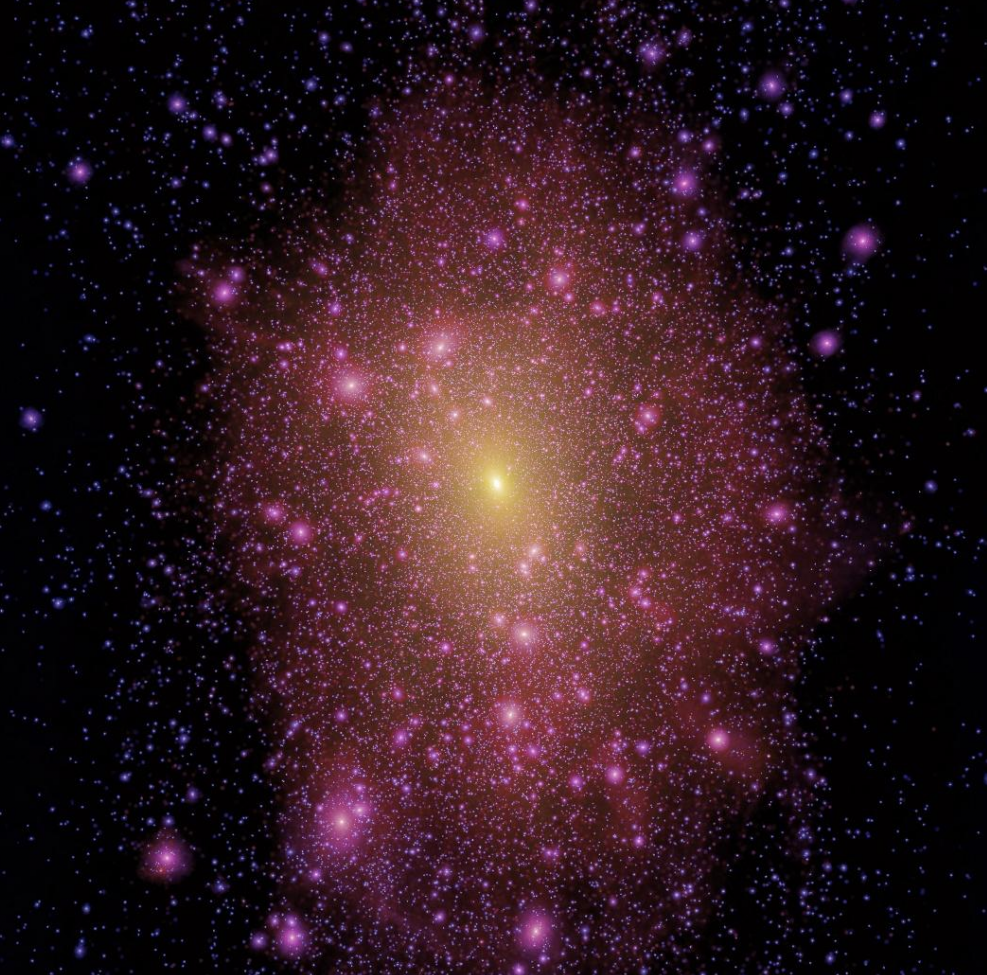
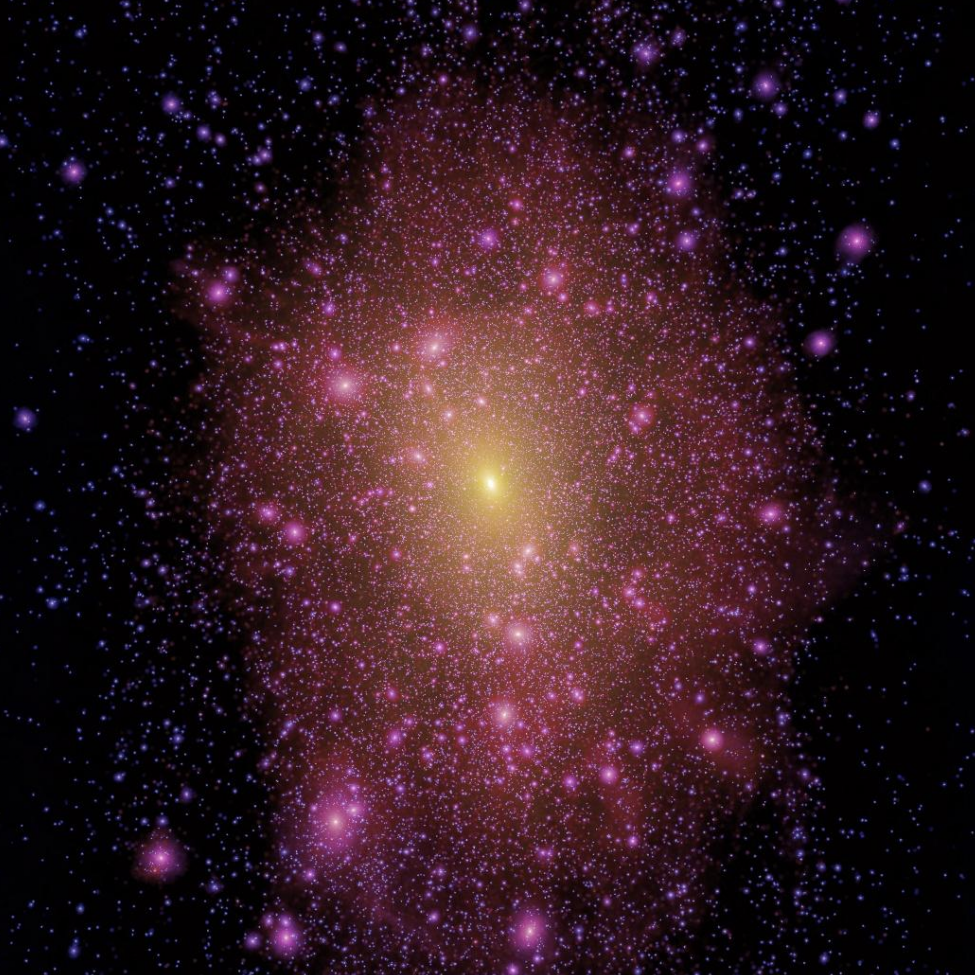
Some new images, reformatting, fixing resizing issue

diff --git a/index.html b/index.html
@@ -10,11 +10,20 @@
     <meta name="twitter:card" content="summary" />
     <meta name="twitter:title" content="streams21" />
     <meta name="twitter:description" content="A discussion-focussed online workshop on Milky Way stellar streams" />
-    <meta name="twitter:image" content="https://stellarstreams.org/streams21/images/m31-orbits.png" />
+    <meta name="twitter:image" content="https://stellarstreams.org/streams21/images/logo_favicon.png" />
 
-    <title>Streams 21 Workshop</title>
+    <meta property="og:site_name" content="Streams 21">
+    <meta property="og:title" content="Homepage | Streams 21 Workshop">
+    <meta property="og:description" content="A discussion-focussed online workshop on Milky Way stellar streams">
+    <meta property="og:image" content="https://stellarstreams.org/streams21/images/logo_favicon.png">
+    <meta property="og:url" content="https://stellarstreams.org/streams21">
+
+    <title>Streams 21: Constraints on Dark Matter Workshop</title>
 
     <link href="https://fonts.googleapis.com/css2?family=Open+Sans:ital,wght@0,300;0,400;0,600;0,700;0,800;1,300;1,400;1,600;1,700;1,800&display=swap" rel="stylesheet">
+
+    <link rel="shortcut icon" href="images/favicon.ico" type="image/x-icon">
+    <link rel="icon" href="images/favicon.ico" type="image/x-icon">
 
     <!-- Bootstrap core CSS -->
     <link href="css/bootstrap.min.css" rel="stylesheet">
@@ -121,7 +130,7 @@
         <hr height="2px">
         <h2>Small-scale structure in the Milky Way</h2>
         <hr height="1px">
-        <p>What will it take to reliably detect a dark matter subhalo interacting with a stream? What information do we need to rule out all baryonic explanations? Are we missing important effects in our simulations which produce additional stream structure?
+        <p>What will it take to reliably detect a dark matter subhalo interacting with a stream? What information do we need to rule out all baryonic explanations? Are we missing important effects which produce additional stream structure?
       </p>
       </div><!-- /.col-lg-4 -->
     </div>
@@ -131,21 +140,21 @@
         <hr height="2px">
         <h2>Going beyond the Milky Way</h2>
         <hr height="1px">
-        <p>What do streams around other galaxies provide? Collaborating and communicating with other communities (e.g. dark matter models, cosmological simulations). How do stream constraints on dark matter compare to other methods?
+        <p>What do streams around other galaxies provide? How do we improve collaboration with other communities (dark matter models, cosmological simulations, ...)? How do dark matter constraints from streams compare to other methods?
         </p>
       </div><!-- /.col-lg-4 -->
       <div class="col-lg-4">
-        <img src="images/community.png" alt="" width="60%" style="border-radius: 50%">
+        <img src="images/community.png" alt="" width="60%" style="border-radius: 50%; ">
         <hr height="2px">
         <h2>Community recommendations</h2>
         <hr height="1px">
         <p>
-          What do we need as a community going forward? Do we need standardised tests and 'challenges’ for large and small-scale dark matter constraints? Do we need a common protocol for reporting stream data?
+          What do we need as a community going forward? Do we need standardised tests and 'challenges’ for large and small-scale dark matter constraints? Do we need a common protocol for reporting stream discoveries and member stars?
         </p>
       </div><!-- /.col-lg-4 -->
     </div>
 
-      <a name="format"></a>
+    <a name="format"></a>
     <hr class="divider">
 
     <div class="row">
@@ -163,29 +172,29 @@
       </p>
       </div>
       <div class="col-md-5 order-md-3">
-        <img src="images/m31-orbits.png" alt="" width="100%" class="center-block" >
+        <img src="images/zoom.jpg" alt="" width="90%" class="center-block" style="border-radius: 50%;">
       </div>
     </div>
 
-      <a name="schedule"></a>
+    <a name="schedule"></a>
     <hr class="divider">
 
     <div class="row">
       <div class="col-md-7 order-md-2">
         <h2 class="heading">When? <span class="text-muted">Schedule</span></h2>
         <p class="lead">The workshop will take place from <b>Monday 22nd to Friday 26th February 2021</b>. Each day will run from <b>2pm until 5pm GMT</b>. We will announce a detailed schedule nearer the time.<br><br>
-          <b>Key dates</b><br>
+          <b style="font-size:22px;">Key dates</b><br>
           15th January 2021: Application deadline<br>
           15th February 2021: Pre-recorded talk submission deadline<br>
           22nd&ndash;26th February 2021: Workshop
         </p>
       </div>
       <div class="col-md-5 order-md-1">
-        <img src="images/m31-orbits.png" alt="" width="100%">
+        <img src="images/astronomical_clock.jpg" alt="" width="85%" style="border-radius: 50%;">
       </div>
     </div>
 
-      <a name="apply"></a>
+    <a name="apply"></a>
     <hr class="divider">
 
     <div class="row">
@@ -259,11 +268,11 @@ Adrian Price-Whelan
 %0D%0A
 Jason Sanders
 %0D%0A
-">share the announcement</a> to whomever you think would be interested in attending.
+">share the announcement</a> to anyone you think would be interested in attending.
       </p>
       </div>
       <div class="col-md-5 order-md-3">
-        <img src="images/m31-orbits.png" alt="" width="100%">
+        <img src="images/looking_up.jpg" alt="" width="85%" style="border-radius: 50%;">
       </div>
     </div>
 
@@ -278,7 +287,7 @@ Jason Sanders
         In the longer term we would like the meeting to provide a legacy perhaps as the first in a longer series of meetings. We plan to produce a document detailing the proceedings of the meeting along with recommendations for the community for future targets and goals. If you have ideas on what structure this could take, please contact the organizers.</p>
       </div>
       <div class="col-md-5 order-md-1">
-        <img src="images/pointless.png" alt="" width="80%"  style="border-radius: 50%">
+        <img src="images/pointless.png" alt="" width="85%"  style="border-radius: 50%">
       </div>
     </div>
 
@@ -291,15 +300,24 @@ Jason Sanders
   <!-- FOOTER -->
   <footer class="container">
     <!-- <div class="float-right"> -->
+        <div class="float-right">
+        <a href="https://twitter.com/share?ref_src=twsrc%5Etfw" class="twitter-share-button" data-size="large" data-show-count="false">Share</a>
+        <br>
+        <br>
       <a href="https://www.simonsfoundation.org/flatiron/">
         <img src="images/flatiron_logo.png" width="170px" style="float:right"></a>
+      </div>
     <!-- </div> -->
     <p>Workshop organisers: Ana Bonaca &middot; Cecilia Mateu &middot; Adrian Price-Whelan &middot; Jason Sanders; Email: <a href="mailto:stellar.streams.meetings@gmail.com">stellar.streams.meetings@gmail.com</a>
     </p>
     <p>
     Website created with Bootstrap, Particle Slider and inspired by <a href="https://codepen.io/juliangarnier/pen/idhuG">https://codepen.io/juliangarnier/pen/idhuG</a>
+    <p style="font-size:smaller;font-style: italic;">
+      Image credit: Kathryn Johnston, <a href="https://wwwmpa.mpa-garching.mpg.de/aquarius/">Aquarius Project</a>, <a href="http://www.astro.uvic.ca/~alan/PANDAS/Home.html">PaNDAS survey</a>, Wing Wong, <a href="https://unsplash.com/">https://unsplash.com/</a>
+    </p>
   </footer>
 </main>
+<script async src="https://platform.twitter.com/widgets.js" charset="utf-8"></script>
 <script src="https://code.jquery.com/jquery-3.5.1.slim.min.js" integrity="sha384-DfXdz2htPH0lsSSs5nCTpuj/zy4C+OGpamoFVy38MVBnE+IbbVYUew+OrCXaRkfj" crossorigin="anonymous"></script>
 <script src="https://particleslider.com/js/particleslider/current/particleslider.js"></script>
 <script src="js/script.js"></script>

diff --git a/js/script.js b/js/script.js
@@ -38,11 +38,8 @@ var init = function(){
 
 
 var initParticleSlider = function(){
-  var psScript = document.createElement('script');
 
-  scaleDataURL(document.getElementById('first-slide').dataset.src).then(scaledSrc=>{
-    document.getElementById('first-slide').dataset.src = scaledSrc;
-  });
+  var psScript = document.createElement('script');
 
   (psScript.addEventListener
     ? psScript.addEventListener('load', init, false)
@@ -51,6 +48,18 @@ var initParticleSlider = function(){
     psScript.setAttribute('type', 'text/javascript');
   document.body.appendChild(psScript);
 }
+
+function resize_image(){
+scaleDataURL(document.getElementById('first-slide').dataset.src).then(scaledSrc=>{
+  document.getElementById('first-slide').dataset.src = scaledSrc;
+});
+}
+resize_image();
+
+function reload(){
+  resize_image(); initParticleSlider;
+}
+window.addEventListener('resize', reload);
 
 (window.addEventListener
   ? window.addEventListener('load', initParticleSlider, false)
@@ -69,7 +78,7 @@ window.addEventListener('scroll', function() {
         menu.style.top = '0px';
         menu.style.backgroundColor='#222222';
         toplabel.style.top = '-200px';
-        constraints.style.top = '-600px';
+        constraints.style.top = '-70%';
         btn.addClass('show');
         btnw.href="#";
     } else {
@@ -77,6 +86,7 @@ window.addEventListener('scroll', function() {
         menu.style.bottom = '';
         menu.style.backgroundColor='transparent';
         constraints.style.top = '0px';
+        toplabel.style.top = '0px';
         btn.removeClass('show');
         btnw.href="#idea";
     }

diff --git a/css/style.css b/css/style.css
@@ -4,7 +4,7 @@
 
 html, body {
   color: #DDDDDD;
-  font-size: 14px;
+  font-size: 14.5px;
   font-family: 'Open Sans', sans-serif;
   font-weight: 300;
   background-color: #222222;
@@ -114,7 +114,7 @@ a:hover{
     animation: 4s ease 0s normal forwards 1 fadein;
 }
 #constraints p {
-  top:58%;
+  top:60%;
   right: 11%;
   position:absolute;
   font-size: 1.5rem;
@@ -208,6 +208,10 @@ a:hover{
   margin-left: .75rem;
 }
 
+.col-md-5 {
+  display: flex;
+  align-items: center;
+}
 
 /* Featurettes
 ------------------------- */
@@ -228,6 +232,10 @@ a:hover{
   margin-bottom: 3rem;
 }
 
+.twitter-share-button{
+  float:right !important;
+  font-size:large;
+}
 
 /* RESPONSIVE CSS
 -------------------------------------------------- */
@@ -247,6 +255,9 @@ a:hover{
   .col-lg-4 img{
     width:35%;
   }
+  .lead {
+  text-align: center;
+}
   .offset-2{
     margin-left:0%;
   }
@@ -257,6 +268,6 @@ a:hover{
 
 @media (min-width: 62em) {
   .heading {
-    margin-top: 7rem;
+    margin-top: 5rem;
   }
 }

diff --git a/README.md b/README.md
@@ -1,10 +1,3 @@
-Website for Streams 21 conference
-
 ![alt text](images/logo_colour.png)
 
-
-TO DO
-
-1. Add more images (currently Adrian's M31 used as a placeholder in lots of places) and check credit for images.
-2. Some formatting issues with side-by-side text and images
-3. If can be bothered, try to improve layout on smaller screens. Currently the logo doesn't scale with window size. Also images probably too big on a phone -- Sort of fixed I think. Have to test on actual devices.
+Website for Streams 21 conference
